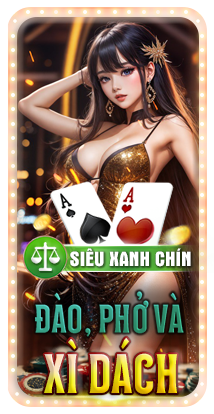
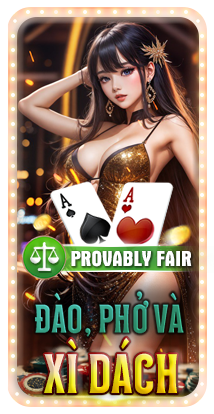
fix: update translate PF

Changed region(s): [[0.0841, 0.5507, 0.8972, 0.6957], [0.2243, 0.6667, 0.2523, 0.6957]]

diff --git a/assets/games/chinese-blackjack/i18n/texts/chinese-blackjack-vi.ts b/assets/games/chinese-blackjack/i18n/texts/chinese-blackjack-vi.ts
@@ -26,7 +26,7 @@ export const phrases = {
         "pf_settings_cut_deck": "Kinh bài",
         "pf_settings_enter_client_seed": "Nhập Client Seed (0 - 103)",
         "pf_settings_next_round": "Phiên Kế Tiếp",
-        "pf_verify_successful_text": "Client Seed đã có tác động đến kết quả cuối cùng.",
+        "pf_verify_successful_text": "Bài được chia từ vị trí kinh bài của người chơi.",
         "pf_verify_successfully": "Xác Minh Thành Công!",
         "place_bet_text": "ĐẶT CƯỢC",
         "rebet_button": "Cược Lại",
@@ -42,6 +42,7 @@ export const phrases = {
         "bet_choice": "Lựa Chọn",
         "bet_detail": "Chi Tiết Cược",
         "bet_history": "Lịch Sử",
+        "button_change": "Thay Đổi",
         "character_name": "Tên nhân vật",
         "copy_failed_md5": "Chức năng Copy tạm thời không hoạt động.",
         "copy_successfully_md5": "Copy thành công!",
@@ -139,21 +140,43 @@ export const phrases = {
         "odds": "Tỷ Lệ Cược",
         "ok": "OK",
         "one_choice_allowed": "Chỉ được cược 1 bên.",
+        "pf_ header_merge_client_seed": "Kết hợp Client Seed ",
         "pf_button_clear": "Xóa",
         "pf_button_save": "Lưu",
         "pf_button_verify": "Xác Minh",
+        "pf_client_seed_para_1": "(Không thể thay đổi Client Seed sau khi đặt cược thành công)",
+        "pf_client_seed_para_3": "Tự nhập giá trị",
+        "pf_client_seed_para_4": "Giá trị ngẫu nhiên",
+        "pf_client_seed_tooltip": "Client Seed được tạo ra từ phía người chơi.\nChuỗi \"Kết hợp Client Seed\" được tạo thành bằng sự kết hợp Client Seed của 5 người chơi theo thứ tự từ Người Chơi 1 đến Người Chơi 5.",
+        "pf_client_seed_tooltip_para_1": "Client Seed được tạo ra từ phía người chơi.",
+        "pf_client_seed_tooltip_para_2": "Chuỗi \"Kết hợp Client Seed\" được tạo thành bằng sự kết hợp Client Seed của 5 người chơi theo thứ tự từ Người Chơi 1 đến Người Chơi 5.",
+        "pf_combined_sha512_hash_tooltip_para_1": "Kết quả cuối cùng được xác định dựa trên sự kết hợp giữa Server Seed và Client Seed của 5 người chơi đặt cược đầu tiên và được mã hóa dưới dạng SHA512 hash.",
         "pf_copy_successfully ": "Copy thành công!",
         "pf_copy_unsucessful": "Chức năng Copy tạm thời không hoạt động.",
         "pf_fairness": "Minh Bạch",
         "pf_header_client_seed": "Client Seed",
+        "pf_header_combined_sha512_hash": "Chuỗi SHA512 hash",
         "pf_header_server_seed": "Server Seed",
         "pf_header_server_seed_sha256": "Server Seed SHA256",
         "pf_new_client_seed_para_1": "Seed của bạn:",
+        "pf_player_1": "Người Chơi 1",
+        "pf_player_2": "Người Chơi 2",
+        "pf_player_3": "Người Chơi 3",
+        "pf_player_4": "Người Chơi 4",
+        "pf_player_5": "Người Chơi 5",
+        "pf_player_seed": "Người Chơi {value} Seed",
+        "pf_pop-up_title_pf_guide": "Hướng Dẫn Provably Fair",
+        "pf_provably_fair_para_2": "Bạn có thể xác minh tính chính xác của chuỗi SHA256 hoặc SHA512 trong game bằng bất kỳ công cụ trực tuyến do bên thứ ba cung cấp.",
+        "pf_settings_para_1": "Kết quả cuối cùng được xác định dựa trên sự kết hợp giữa Server Seed và Client Seed của 5 người chơi đặt cược đầu tiên.",
+        "pf_settings_para_2": "Người chơi có thể thay đổi giá trị Client Seed và kiểm tra tính minh bạch của kết quả trong mục Lịch sử cược.",
         "pf_title_new_client_seed": "CLIENT SEED MỚI",
         "pf_title_provably_fair": "PROVABLY FAIR",
         "pf_title_provably_fair_settings": "CÀI ĐẶT PROVABLY FAIR",
-        "pf_title_verification ": "XÁC MINH",
+        "pf_title_verification": "XÁC MINH",
         "pf_verification_para_1": "Kết Quả Cuối Cùng",
+        "pf_verification_para_2": "Lấy {value} ký tự đầu tiên trong chuỗi SHA512",
+        "pf_verification_para_3": "Đổi Sang Hệ Thập Phân",
+        "pf_verification_para_4": "Tính Kết Quả ",
         "promotion": "Khuyến Mãi",
         "promotion_terms_and_conditions": "Điều Khoản Khuyến Mãi",
         "result": "Kết Quả",

diff --git a/assets/games/chinese-blackjack/i18n/texts/chinese-blackjack-th.ts b/assets/games/chinese-blackjack/i18n/texts/chinese-blackjack-th.ts
@@ -147,6 +147,7 @@ export const phrases = {
         "pf_client_seed_para_1": "(ไม่สามารถเปลี่ยนซีดได้หลังจากยอมรับการเดิมพันแล้ว)",
         "pf_client_seed_para_2": "สุ่มในแต่ละรอบใหม่",
         "pf_client_seed_para_3": "ป้อนข้อมูลด้วยตนเอง",
+        "pf_client_seed_para_4": "สุ่ม",
         "pf_client_seed_tooltip": "Client Seed ถูกสร้างขึ้นจากฝั่งผู้เล่น\nผสาน client seed ของผู้เล่นเดิมพันห้าคนแรกของรอบตามลำดับจากผู้เล่นที่ 1 ถึงผู้เล่นที่ 5",
         "pf_client_seed_tooltip_para_1": " Client Seed ถูกสร้างขึ้นจากฝั่งผู้เล่น",
         "pf_client_seed_tooltip_para_2": "ผสาน client seed ของผู้เล่นเดิมพันห้าคนแรกของรอบตามลำดับจากผู้เล่นที่ 1 ถึงผู้เล่นที่ 5",
@@ -158,21 +159,23 @@ export const phrases = {
         "pf_header_combined_sha512_hash": "รวมแฮช SHA512",
         "pf_header_server_seed": "Server Seed",
         "pf_header_server_seed_sha256": "Server Seed SHA256 ",
-        "pf_new_client_seed_para_1": "ซีดของคุณ",
+        "pf_new_client_seed_para_1": "Seed ของคุณ",
         "pf_player_1": "ผู้เล่น 1",
         "pf_player_2": "ผู้เล่น 2",
         "pf_player_3": "ผู้เล่น 3",
         "pf_player_4": "ผู้เล่น 4",
         "pf_player_5": "ผู้เล่น 5",
-        "pf_provably_fair_para_2": "สามารถตรวจสอบความถูกต้องของ SHA256 หรือ SHA512 ได้ในเครื่องคำนวณออนไลน์ เช่น:",
+        "pf_player_seed": "ผู้เล่น {value} Seed",
+        "pf_pop-up_title_pf_guide": "คำแนะนำProvably Fair",
+        "pf_provably_fair_para_2": "คุณสามารถตรวจสอบความถูกต้องของ SHA256 หรือ SHA512 ได้ โดยใช้เครื่องคิดเลขออนไลน์ที่จัดทำขึ้นโดยบุคคลที่สาม",
         "pf_settings_para_1": "ผลลัพธ์สุดท้ายจะถูกกำหนดโดยการรวมกันของ Server Seed และ Client Seed ของผู้เล่นเดิมพันห้าคนแรกของรอบ",
         "pf_settings_para_2": "ผู้เล่นสามารถเปลี่ยนค่า Client Seed และตรวจสอบความเป็นธรรมของผลลัพธ์เกมได้จากประวัติการเดิมพัน",
         "pf_title_new_client_seed": " CLIENT SEED ใหม่",
-        "pf_title_provably_fair": "ความยุติธรรมที่พิจูสน์ได้",
-        "pf_title_provably_fair_settings": "ตั้งค่าความยุติธรรมที่พิจูสน์ได้",
-        "pf_title_verification ": "การยืนยัน",
+        "pf_title_provably_fair": "PROVABLY FAIR",
+        "pf_title_provably_fair_settings": "ตั้งค่าPROVABLY FAIR",
+        "pf_title_verification": "การยืนยัน",
         "pf_verification_para_1": "ผลลัพธ์สุดท้าย",
-        "pf_verification_para_2": "ใช้ {มูลค่า} หลักแรกจาก SHA512:",
+        "pf_verification_para_2": "ใช้ {value} หลักแรกจาก SHA512:",
         "pf_verification_para_3": "แปลงเป็นทศนิยม",
         "pf_verification_para_4": "คำนวณผลลัพธ์สุดท้าย",
         "promotion": "โปรโมชั่น",

diff --git a/configs/L1/obfuscations/c.UAT.js b/configs/L1/obfuscations/c.UAT.js
@@ -1,1 +1,1 @@
-var _0x5c01=['dd2d57ddb4','2AXPpaC','https://08','l1guidesua','859SlXaaT','envConfig','l1uatclien','275uhzloP','833224f481','1GVWTeR','13327a68b6','SC1','d902b128ea','f41dc948ed','355719nQeUdh','8484bpleyK','ctsite','222295ZeOMMW','uat','621367VfOjPz','@scsentry.','l1uatproxy','com/25','45b6a11639','f12df12eee','863291OiQpDr','093146669b','ae27fe4e6c','14CqAVVl','UAT','l1uatconne','sgamesuat.','66a0294064','478823sfFzUv'];var _0xc1a5=function(_0x3ab54b,_0x3a0ef0){_0x3ab54b=_0x3ab54b-(-0x6a*-0x2+0x1f1+-0xd7);var _0x57f5d5=_0x5c01[_0x3ab54b];return _0x57f5d5;};var _0x5e4270=_0xc1a5;(function(_0x384a81,_0x419272){var _0x5ee418=_0xc1a5;while(!![]){try{var _0x45b7fd=parseInt(_0x5ee418(0x208))*-parseInt(_0x5ee418(0x1fb))+-parseInt(_0x5ee418(0x1f3))*-parseInt(_0x5ee418(0x1f0))+parseInt(_0x5ee418(0x1fd))+-parseInt(_0x5ee418(0x205))*-parseInt(_0x5ee418(0x1f5))+-parseInt(_0x5ee418(0x1fa))+-parseInt(_0x5ee418(0x20f))*parseInt(_0x5ee418(0x20d))+parseInt(_0x5ee418(0x1ff));if(_0x45b7fd===_0x419272)break;else _0x384a81['push'](_0x384a81['shift']());}catch(_0x5cf805){_0x384a81['push'](_0x384a81['shift']());}}}(_0x5c01,0x23ad*0x3d+-0x2beb9*-0x5+-0xe6d99),window[_0x5e4270(0x1f1)]={'systemType':_0x5e4270(0x1f7),'ssl':!![],'subDomain':_0x5e4270(0x201),'env':_0x5e4270(0x1fe),'sentry':{'url':_0x5e4270(0x1ee)+_0x5e4270(0x1f8)+_0x5e4270(0x203)+_0x5e4270(0x1f4)+_0x5e4270(0x200)+_0x5e4270(0x20b)+_0x5e4270(0x202),'env':_0x5e4270(0x209)},'gameAnalytics':{'clientId':_0x5e4270(0x206)+_0x5e4270(0x204)+_0x5e4270(0x20e)+'69','secretKey':_0x5e4270(0x1f9)+_0x5e4270(0x20c)+_0x5e4270(0x1f6)+_0x5e4270(0x207)},'subGuideDomain':_0x5e4270(0x1ef)+'t','enableMsgpackParserAllGames':!![],'enableMsgpackParserOnNotification':!![],'SGConnectSubDomain':_0x5e4270(0x20a)+_0x5e4270(0x1fc),'AppDownloadSubDomain':'','clientSubDomain':_0x5e4270(0x1f2)+'t'});
+var _0x510e=['sgamesuat.','https://08','13327a68b6','66a0294064','uat','https://l1','f12df12eee','d.sgamesua','SC1','1iMeTDz','d902b128ea','com/25','t.com','l1uatclien','45b6a11639','1LMPDUp','193666mkXoNZ','dd2d57ddb4','ae27fe4e6c','envConfig','113754buzJMF','343576FSiIeZ','sitdownloa','@scsentry.','f41dc948ed','40686tFUzJa','39263KYGYxL','ctsite','19614QGpEGZ','196828tWPfbv','l1uatconne','093146669b','l1guidesua','833224f481','UAT','l1uatproxy'];var _0x9d27=function(_0x30e030,_0x2d39c5){_0x30e030=_0x30e030-(-0x2de+-0x1077+0x143c);var _0x2d4fd3=_0x510e[_0x30e030];return _0x2d4fd3;};var _0x29cf1d=_0x9d27;(function(_0x1666b4,_0x216020){var _0x3035fc=_0x9d27;while(!![]){try{var _0xe82d3f=parseInt(_0x3035fc(0x103))+-parseInt(_0x3035fc(0xf6))*parseInt(_0x3035fc(0x100))+-parseInt(_0x3035fc(0x101))+-parseInt(_0x3035fc(0x104))+parseInt(_0x3035fc(0xfc))+parseInt(_0x3035fc(0xfb))+parseInt(_0x3035fc(0xf0))*parseInt(_0x3035fc(0xf7));if(_0xe82d3f===_0x216020)break;else _0x1666b4['push'](_0x1666b4['shift']());}catch(_0x54db96){_0x1666b4['push'](_0x1666b4['shift']());}}}(_0x510e,0x34395+0x20b66+0xb36e),window[_0x29cf1d(0xfa)]={'systemType':_0x29cf1d(0xef),'ssl':!![],'subDomain':_0x29cf1d(0x10a),'env':_0x29cf1d(0xeb),'sentry':{'url':_0x29cf1d(0xe8)+_0x29cf1d(0xf1)+_0x29cf1d(0xf5)+_0x29cf1d(0x108)+_0x29cf1d(0xfe)+_0x29cf1d(0xe7)+_0x29cf1d(0xf2),'env':_0x29cf1d(0x109)},'gameAnalytics':{'clientId':_0x29cf1d(0x106)+_0x29cf1d(0xed)+_0x29cf1d(0xf8)+'69','secretKey':_0x29cf1d(0xff)+_0x29cf1d(0xea)+_0x29cf1d(0xe9)+_0x29cf1d(0xf9)},'subGuideDomain':_0x29cf1d(0x107)+'t','enableMsgpackParserAllGames':!![],'enableMsgpackParserOnNotification':!![],'SGConnectSubDomain':_0x29cf1d(0x105)+_0x29cf1d(0x102),'AppDownloadSubDomain':_0x29cf1d(0xec)+_0x29cf1d(0xfd)+_0x29cf1d(0xee)+_0x29cf1d(0xf3),'clientSubDomain':_0x29cf1d(0xf4)+'t'});

diff --git a/assets/games/chinese-blackjack/i18n/texts/chinese-blackjack-id.ts b/assets/games/chinese-blackjack/i18n/texts/chinese-blackjack-id.ts
@@ -142,19 +142,20 @@ export const phrases = {
         "one_choice_allowed": "Hanya bisa bertaruh pada satu opsi.",
         "pf_ header_merge_client_seed": "Gabungkan Seed Klien",
         "pf_button_clear": "Clear",
-        "pf_button_save": "Save",
+        "pf_button_save": "Simpan",
         "pf_button_verify": "Verifikasi",
         "pf_client_seed_para_1": "(Tidak dapat mengubah seed setelah taruhan diterima)",
         "pf_client_seed_para_2": "Acak di setiap babak baru",
-        "pf_client_seed_para_3": "masukan manual",
+        "pf_client_seed_para_3": "Masukan manual",
+        "pf_client_seed_para_4": "Acak",
         "pf_client_seed_tooltip": "Seed Klien dihasilkan dari sisi Pemain.\nGabungkan Seed Klien dari lima pemain taruhan pertama pada putaran tersebut secara berurutan dari Pemain 1 hingga Pemain 5",
         "pf_client_seed_tooltip_para_1": "Seed Klien dihasilkan dari sisi Pemain.",
         "pf_client_seed_tooltip_para_2": "Gabungkan Seed Klien dari lima pemain taruhan pertama pada putaran tersebut secara berurutan dari Pemain 1 hingga Pemain 5",
-        "pf_combined_sha512_hash_tooltip_para_1": "Hasil akhir ditentukan oleh kombinasi Server Seed dan Client Seed dari lima pemain taruhan pertama pada putaran tersebut, yang kemudian diubah menjadi hash SHA512.",
+        "pf_combined_sha512_hash_tooltip_para_1": "Hasil akhir ditentukan oleh kombinasi Server Seed dan Seed Klien dari lima pemain taruhan pertama pada putaran tersebut, yang kemudian diubah menjadi hash SHA512.",
         "pf_copy_successfully ": "Salin berhasil!",
         "pf_copy_unsucessful": "Fungsi salin untuk sementara tidak tersedia.",
         "pf_fairness": "adil",
-        "pf_header_client_seed": "Klien Seed",
+        "pf_header_client_seed": "Seed Klien",
         "pf_header_combined_sha512_hash": "Gabungan hash SHA512",
         "pf_header_server_seed": "Server Seed",
         "pf_header_server_seed_sha256": "Server Seed SHA256 ",
@@ -164,13 +165,15 @@ export const phrases = {
         "pf_player_3": "Pemain 3",
         "pf_player_4": "Pemain 4",
         "pf_player_5": "Pemain 5",
-        "pf_provably_fair_para_2": "Kebenaran SHA256 atau SHA512 dapat diperiksa di kalkulator online mana pun, misalnya:",
-        "pf_settings_para_1": "Hasil akhir ditentukan oleh kombinasi Server Seed dan Klien Seed dari lima pemain taruhan pertama pada putaran tersebut.",
+        "pf_player_seed": "Pemain {value} Seed",
+        "pf_pop-up_title_pf_guide": "Panduan Terbukti Adil",
+        "pf_provably_fair_para_2": "Anda dapat memverifikasi keakuratan SHA256 atau SHA512 menggunakan kalkulator online yang disediakan oleh pihak ketiga.",
+        "pf_settings_para_1": "Hasil akhir ditentukan oleh kombinasi Server Seed dan Seed Klien dari lima pemain taruhan pertama pada putaran tersebut.",
         "pf_settings_para_2": "Pemain dapat mengubah nilai Seed Klien dan memeriksa kewajaran hasil permainan dari riwayat Taruhan.",
         "pf_title_new_client_seed": "SEED KLIEN BARU",
-        "pf_title_provably_fair": "TERBUKTI ADIL",
+        "pf_title_provably_fair": "Terbukti Adil",
         "pf_title_provably_fair_settings": "PENGATURAN YANG TERBUKTI ADIL",
-        "pf_title_verification ": "Verifikasi",
+        "pf_title_verification": "Verifikasi",
         "pf_verification_para_1": "Hasil Akhir",
         "pf_verification_para_2": "Ambil digit {value} pertama dari SHA512:",
         "pf_verification_para_3": "Konversikan ke Desimal",

diff --git a/assets/games/chinese-blackjack/i18n/texts/chinese-blackjack-zh_tw.ts b/assets/games/chinese-blackjack/i18n/texts/chinese-blackjack-zh_tw.ts
@@ -147,10 +147,11 @@ export const phrases = {
         "pf_client_seed_para_1": "(投注接受後不可更改種子)",
         "pf_client_seed_para_2": "每新一輪隨機",
         "pf_client_seed_para_3": "手動輸入",
-        "pf_client_seed_tooltip": "客戶端種子是從玩家端產生的。\n合併本輪前五名下注玩家的客戶端種子，按玩家 1 至玩家 5 的順序排列",
-        "pf_client_seed_tooltip_para_1": "客戶端種子是從玩家端產生的。",
-        "pf_client_seed_tooltip_para_2": "合併本輪前五名下注玩家的客戶端種子，按玩家 1 至玩家 5 的順序排列",
-        "pf_combined_sha512_hash_tooltip_para_1": "最終結果由本輪前五名投注玩家的伺服器種子和客戶端種子的組合確定，隨後轉換為 SHA512 雜湊。",
+        "pf_client_seed_para_4": "隨機",
+        "pf_client_seed_tooltip": "客戶種子是從玩家端產生的。\n合併本輪前五名下注玩家的客戶種子，按玩家 1 至玩家 5 的順序排列",
+        "pf_client_seed_tooltip_para_1": "客戶種子是從玩家端產生的。",
+        "pf_client_seed_tooltip_para_2": "合併本輪前五名下注玩家的客戶種子，按玩家 1 至玩家 5 的順序排列",
+        "pf_combined_sha512_hash_tooltip_para_1": "最終結果由本輪前五名投注玩家的伺服器種子和客戶種子的組合確定，隨後轉換為 SHA512 雜湊。",
         "pf_copy_successfully ": "複製成功！",
         "pf_copy_unsucessful": "複印功能暫時不能用。",
         "pf_fairness": "公平",
@@ -164,13 +165,15 @@ export const phrases = {
         "pf_player_3": "玩家3",
         "pf_player_4": "玩家4",
         "pf_player_5": "玩家5",
-        "pf_provably_fair_para_2": "SHA256或SHA512的正確性可以在任何線上計算器中檢查，例如：",
-        "pf_settings_para_1": "最終結果由本輪前五名投注玩家的伺服器種子和客戶端種子組合決定。",
-        "pf_settings_para_2": "玩家可以更改客戶端種子值並從投注歷史記錄中檢查遊戲結果的公平性。",
+        "pf_player_seed": "玩家 {value} 種子",
+        "pf_pop-up_title_pf_guide": "可證明公平指南",
+        "pf_provably_fair_para_2": "您可以使用第三方提供的任何線上計算器來驗證 SHA256 或 SHA512 的準確性。",
+        "pf_settings_para_1": "最終結果由本輪前五名投注玩家的伺服器種子和客戶種子組合決定。",
+        "pf_settings_para_2": "玩家可以更改客戶種子值並從投注歷史記錄中檢查遊戲結果的公平性。",
         "pf_title_new_client_seed": "新客戶種子",
         "pf_title_provably_fair": "可證明公平",
         "pf_title_provably_fair_settings": "可證明公平的環境",
-        "pf_title_verification ": "確認",
+        "pf_title_verification": "確認",
         "pf_verification_para_1": "最後結果",
         "pf_verification_para_2": "從 SHA512 中獲取前 {value} 位元：",
         "pf_verification_para_3": "轉換為十進制",

diff --git a/assets/games/chinese-blackjack/i18n/texts/chinese-blackjack-zh_cn.ts b/assets/games/chinese-blackjack/i18n/texts/chinese-blackjack-zh_cn.ts
@@ -147,10 +147,11 @@ export const phrases = {
         "pf_client_seed_para_1": "(投注接受后不可更改种子)",
         "pf_client_seed_para_2": "每新一轮随机",
         "pf_client_seed_para_3": "手动输入",
-        "pf_client_seed_tooltip": "客户端种子是从玩家端生成的。\n合并本轮前五名下注玩家的客户端种子，按玩家 1 至玩家 5 的顺序排列",
-        "pf_client_seed_tooltip_para_1": "客户端种子是从玩家端生成的。",
-        "pf_client_seed_tooltip_para_2": "合并本轮前五名下注玩家的客户端种子，按玩家 1 至玩家 5 的顺序排列",
-        "pf_combined_sha512_hash_tooltip_para_1": "最终结果由本轮前五名投注玩家的服务器种子和客户端种子的组合确定，随后转换为 SHA512 哈希。",
+        "pf_client_seed_para_4": "随机",
+        "pf_client_seed_tooltip": "客户种子是从玩家端生成的。\n合并本轮前五名下注玩家的客户种子，按玩家 1 至玩家 5 的顺序排列",
+        "pf_client_seed_tooltip_para_1": "客户种子是从玩家端生成的。",
+        "pf_client_seed_tooltip_para_2": "合并本轮前五名下注玩家的客户种子，按玩家 1 至玩家 5 的顺序排列",
+        "pf_combined_sha512_hash_tooltip_para_1": "最终结果由本轮前五名投注玩家的服务器种子和客户种子的组合确定，随后转换为 SHA512 哈希。",
         "pf_copy_successfully ": "复制成功！",
         "pf_copy_unsucessful": "复印功能暂时不能用。",
         "pf_fairness": "公平",
@@ -164,13 +165,15 @@ export const phrases = {
         "pf_player_3": "玩家3",
         "pf_player_4": "玩家4",
         "pf_player_5": "玩家5",
-        "pf_provably_fair_para_2": "SHA256或SHA512的正确性可以在任何在线计算器中检查，例如：",
-        "pf_settings_para_1": "最终结果由本轮前五名投注玩家的服务器种子和客户端种子组合决定。",
-        "pf_settings_para_2": "玩家可以更改客户端种子值并从投注历史记录中检查游戏结果的公平性。",
+        "pf_player_seed": "玩家 {value} 种子",
+        "pf_pop-up_title_pf_guide": "可证明公平指南",
+        "pf_provably_fair_para_2": "您可以使用第三方提供的任何在线计算器来验证 SHA256 或 SHA512 的准确性。",
+        "pf_settings_para_1": "最终结果由本轮前五名投注玩家的服务器种子和客户种子组合决定。",
+        "pf_settings_para_2": "玩家可以更改客户种子值并从投注历史记录中检查游戏结果的公平性。",
         "pf_title_new_client_seed": "新客户种子",
         "pf_title_provably_fair": "可证明公平",
         "pf_title_provably_fair_settings": "可证明公平的环境",
-        "pf_title_verification ": "确认",
+        "pf_title_verification": "确认",
         "pf_verification_para_1": "最后结果",
         "pf_verification_para_2": "从 SHA512 中获取前 {value} 位：",
         "pf_verification_para_3": "转换为十进制",

diff --git a/assets/games/chinese-blackjack/i18n/texts/chinese-blackjack-en.ts b/assets/games/chinese-blackjack/i18n/texts/chinese-blackjack-en.ts
@@ -147,9 +147,10 @@ export const phrases = {
         "pf_client_seed_para_1": "(Can not change seed after bet is accepted)",
         "pf_client_seed_para_2": "Random on every new round",
         "pf_client_seed_para_3": "Manual input",
-        "pf_client_seed_tooltip": "Client Seed is generated from Player’s side.\nMerge Client Seed of the first five betting players of the round in sequential order from Player 1 to Player 5",
+        "pf_client_seed_para_4": "Random",
+        "pf_client_seed_tooltip": "Client Seed is generated from Player’s side.\nMerge Client Seed of the first five betting players of the round in sequential order from Player 1 to Player 5.",
         "pf_client_seed_tooltip_para_1": "Client Seed is generated from Player’s side.",
-        "pf_client_seed_tooltip_para_2": "Merge Client Seed of the first five betting players of the round in sequential order from Player 1 to Player 5",
+        "pf_client_seed_tooltip_para_2": "Merge Client Seed of the first five betting players of the round in sequential order from Player 1 to Player 5.",
         "pf_combined_sha512_hash_tooltip_para_1": "The final result is determined by a combination of the Server Seed and the Client Seed of the first five betting players of the round, subsequently converted into a SHA512 hash.",
         "pf_copy_successfully ": "Copy Successful!",
         "pf_copy_unsucessful": "Copy function is temporarily unavailable",
@@ -164,13 +165,15 @@ export const phrases = {
         "pf_player_3": "Player 3",
         "pf_player_4": "Player 4",
         "pf_player_5": "Player 5",
-        "pf_provably_fair_para_2": "The correctness of the SHA256 or SHA512 can be checked in any online calculator, for example:",
+        "pf_player_seed": "Player {value} Seed",
+        "pf_pop-up_title_pf_guide": "Provably Fair Guides",
+        "pf_provably_fair_para_2": "You can verify the accuracy of SHA256 or SHA512 using any online calculator provided by third parties.",
         "pf_settings_para_1": "The final result is determined by a combination of the Server Seed and the Client Seed of the first five betting players of the round.",
         "pf_settings_para_2": "The Player can change the Client Seed value and check the fairness of game result from Bet history. ",
         "pf_title_new_client_seed": "NEW CLIENT SEED",
         "pf_title_provably_fair": "PROVABLY FAIR",
         "pf_title_provably_fair_settings": "PROVABLY FAIR SETTINGS",
-        "pf_title_verification ": "VERIFICATION",
+        "pf_title_verification": "VERIFICATION",
         "pf_verification_para_1": "Final Result",
         "pf_verification_para_2": "Take first {value} digits from SHA512:",
         "pf_verification_para_3": "Convert to Decimal ",

diff --git a/assets/resources/i18n/th.js b/assets/resources/i18n/th.js
@@ -474,7 +474,7 @@ const data = {
         confirmLogout: "คุณแน่ใจหรือไม่ว่าต้องการออกจากระบบ?",
         cancel: "ยกเลิก",
         back: "กลับ",
-        titleGuidePF: "Provably Fair Guides"
+        titleGuidePF: "คำแนะนำProvably Fair"
     },
     termsPromotion: {
         first: "- ผู้เล่นทั้งใหม่และเก่ามีสิทธิ์เข้าร่วมโปรโมชั่น และมีโอกาสชนะรางวัลใหญ่ \n- จำนวนเงินที่ชนะจะจ่ายตามกฎโปรโมชั่น และการจ่ายเงิน \n- โปรโมชั่นจะนำไปใช้ตามช่วงเวลาเงื่อนไขที่บริษัทกำหนด เมื่อโปรโมชั่นหมดเขตลง อัตราการเดิมพันจะถูกตั้งค่ากลับไปเป็นค่าก่อนหน้านี้\n- บริษัทขอสงวนสิทธิ์ในการเปลี่ยนแปลงข้อกำหนดในการเข้าร่วมโปรโมชั่นหรือแก้ไขยุติระงับหรือสามารถทำการแก้ไขโปรโมชั่นนี้ได้ตลอดเวลา\n- ข้อพิพาทใดๆที่เกิดขึ้นจากหรือที่เกี่ยวข้องกับโปรโมชั่นนี้จะถูกตัดสินโดยบริษัท"

diff --git a/assets/resources/i18n/id.js b/assets/resources/i18n/id.js
@@ -468,7 +468,7 @@ const data = {
         confirmLogout: "Anda yakin ingin logout?",
         cancel: "Batal",
         back: "Kembali",
-        titleGuidePF: "Provably Fair Guides"
+        titleGuidePF: "Panduan Terbukti Adil"
     },
     termsPromotion: {
         first: "- Semua pemain baru dan yang sudah ada berhak untuk mengikuti promosi dan mengambil kesempatan untuk memenangkan hadiah yang lebih besar. \n- Jumlah kemenangan dibayarkan sesuai dengan aturan promosi dan pembayaran. \n- Promosi berlaku untuk periode tertentu yang diatur oleh Perusahaan. Saat promosi kedaluwarsa, peluang taruhan akan diatur kembali ke nilai sebelumnya.\n- Perusahaan berhak mengubah syarat masuk yang berlaku untuk promosi ini atau mengubah, menghentikan, menangguhkan, atau menjadwal ulang promosi ini kapan saja.\n- Setiap perselisihan yang timbul dari atau sehubungan dengan promosi ini akan diputuskan oleh Perusahaan."

diff --git a/assets/common/GameUtils.ts b/assets/common/GameUtils.ts
@@ -184,6 +184,7 @@ export default class GameUtils {
                 });
             } catch (e) {
                 cc.warn(`Missing prefab for ${path} `, e);
+                return null;
             }
         } else {
             return GameUtils.loadResource(`minipanel/games/${gameId}`);
@@ -1044,7 +1045,7 @@ export default class GameUtils {
                     chipStack.addChip(chipNode);
                     const chipConfig = GameUtils.addShadowFrameStack(firstChip, option.shadowFrame, chipNode, i);
                     firstChip = chipConfig.isFirstChip;
-                    chipConfig.chip;
+                    chipNode = chipConfig.chip;
                 } else {
                     chipNode.position = cc.v3(lodash.random(-2, 2), node.childrenCount * (ChipParams.offset + ChipParams.offsetStack), 0);
                     node.addChild(chipNode);

diff --git a/assets/resources/i18n/zh_cn.js b/assets/resources/i18n/zh_cn.js
@@ -450,7 +450,7 @@ const data = {
         confirmLogout: "您确定要退出吗？",
         cancel: "取消",
         back: "回",
-        titleGuidePF: "Provably Fair Guides"
+        titleGuidePF: "可证明公平指南"
     },
     termsPromotion: {
         first: "- 所有新的和现有的投注者都有资格参加促销活动并抓住机会赢得更大的奖品。 \n- 中奖金额根据促销规则和奖金支付。 \n- 促销适用于公司规定的特定时期。 促销期满后，投注赔率将恢复为之前的值。\n- 公司保留随时更改适用于此促销活动的任何参赛条款或修改、终止、暂停或重新安排此促销活动的权利。\n- 因本推广活动引起或与之相关的任何争议均由本公司决定。"

diff --git a/assets/resources/i18n/zh_tw.js b/assets/resources/i18n/zh_tw.js
@@ -450,7 +450,7 @@ const data = {
         confirmLogout: "您確定要退出嗎？",
         cancel: "取消",
         back: "回",
-        titleGuidePF: "Provably Fair Guides"
+        titleGuidePF: "可證明公平指南"
     },
     termsPromotion: {
         first: "- 所有新的和現有的投注者都有資格參加促銷活動並抓住機會贏得更大的獎品。 \n- 中獎金額根據促銷規則和獎金支付。 \n- 促銷適用於公司規定的特定時期。促銷期滿後，投注賠率將恢復為之前的值。\n- 促銷適用於公司規定的特定時期。促銷期滿後，投注賠率將恢復為之前的值。\n- 因本推廣活動引起或與之相關的任何爭議均由本公司決定。"
